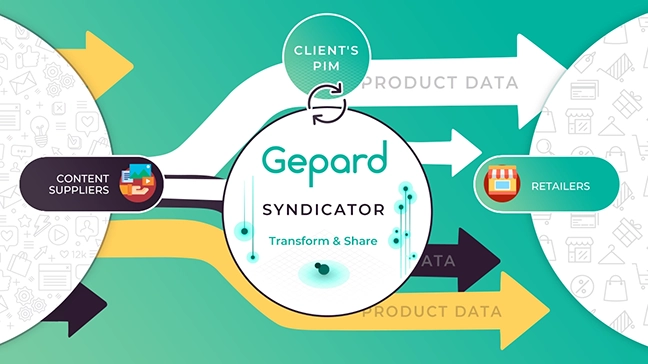
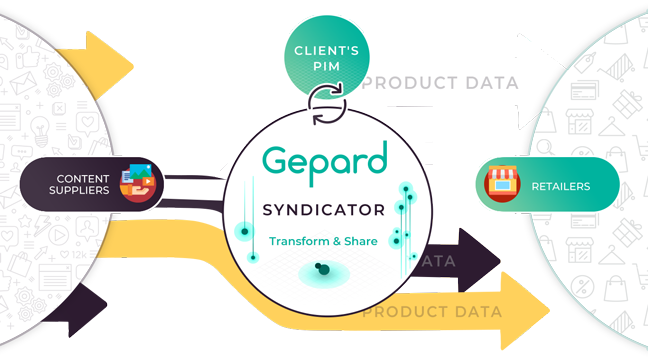
Syndicator image replaced

diff --git a/dist/index.html b/dist/index.html
@@ -26,7 +26,7 @@
     <!-- End of code snippet for Google Fonts -->
 
 	<style>
[2 lines of base64/hex data omitted]
 	</style>
 	<link rel="preload" href="css/styles.css" as="style" onload="this.onload=null;this.rel='stylesheet'">
 	<noscript><link rel="stylesheet" href="css/styles.css"></noscript>
@@ -434,8 +434,8 @@
                     <div class="b-article__container">
                         <picture>
                             <source srcset="resources/img/syndicator.webp" type="image/webp">
-                            <source srcset="resources/img/syndicator.jpg" type="image/jpeg">
-                            <img src="resources/img/syndicator.jpg" alt="" class="b-article__img">
+                            <source srcset="resources/img/syndicator.png" type="image/jpeg">
+                            <img src="resources/img/syndicator.png" alt="" class="b-article__img">
                         </picture>
                         <div class="b-article__content">
                             <div class="b-article__title">Syndicator</div>

diff --git a/src/index.html b/src/index.html
@@ -437,8 +437,8 @@
                     <div class="b-article__container">
                         <picture>
                             <source srcset="resources/img/syndicator.webp" type="image/webp">
-                            <source srcset="resources/img/syndicator.jpg" type="image/jpeg">
-                            <img src="resources/img/syndicator.jpg" alt="" class="b-article__img">
+                            <source srcset="resources/img/syndicator.png" type="image/jpeg">
+                            <img src="resources/img/syndicator.png" alt="" class="b-article__img">
                         </picture>
                         <div class="b-article__content">
                             <div class="b-article__title">Syndicator</div>
